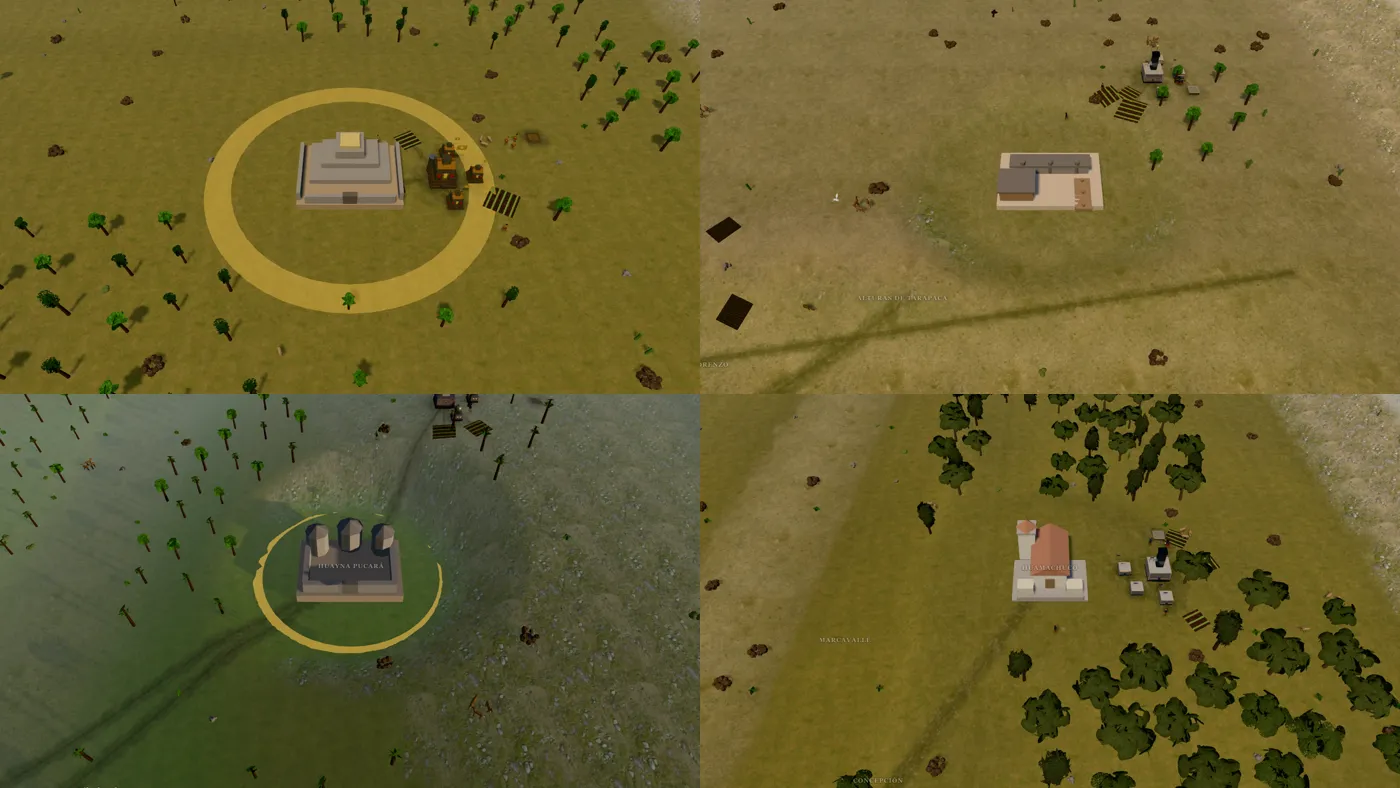
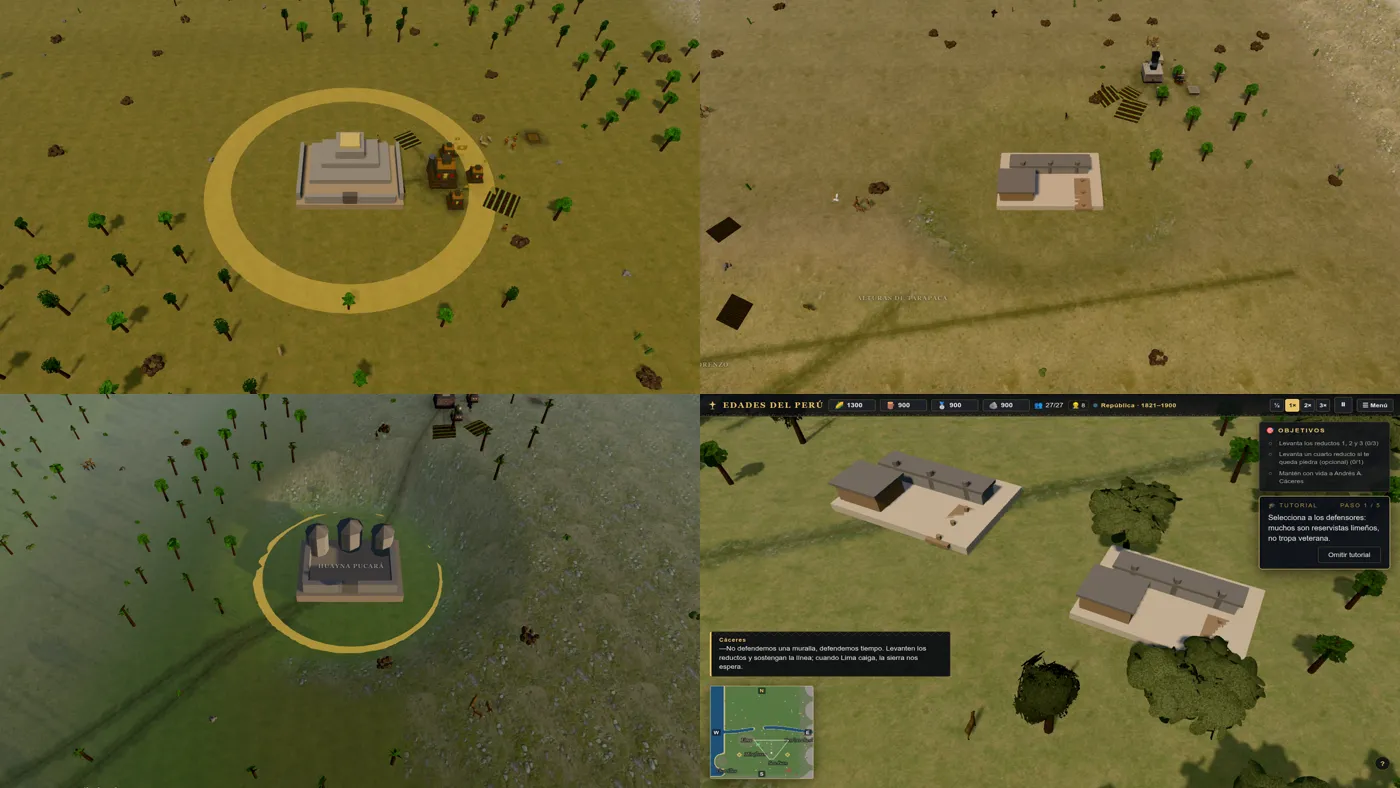
feat: raise the Miraflores redoubts and record the 8/8 round
Composition for the last confusable pair: mission decor now accepts a list, and Miraflores places three arica_battery earthworks along the line (an abstraction the mission objective already names). The blind re-test after the Vilcabamba valley scores 8/8, with D/H separated by the redoubt camp. Bench 698,440 / 547, dist unchanged.

Changed region(s): [[0.4914, 0.4873, 1.0, 1.0]]

diff --git a/src/core/WorldViewDecor.ts b/src/core/WorldViewDecor.ts
@@ -1,4 +1,5 @@
 import type { Game } from './Game';
+import type { MissionDecor } from '../campaign/types';
 import * as THREE from 'three';
 import type { TerrainData } from '../sim/TerrainData';
 import { CulturalLandscape } from '../rendering/CulturalLandscape';
@@ -776,8 +777,18 @@ export class WorldViewDecor {
    * load and never saved (like the terrain and the landmark).
    */
   spawnMissionDecor(): void {
-    const decor = this.game.missionLayout?.decor;
-    if (!decor) return;
+    const raw = this.game.missionLayout?.decor;
+    const pieces: readonly MissionDecor[] = Array.isArray(raw) ? raw : raw ? [raw] : [];
+    if (!pieces.length) return;
+    const parent = new THREE.Group();
+    parent.name = 'mission_decor';
+    this.game.scene.add(parent);
+    this.game.scenarioDecor = parent;
+    for (const decor of pieces) this.spawnDecorPiece(parent, decor);
+  }
+
+  /** One decor piece of the mission composition, placed relative to a player/enemy base. */
+  private spawnDecorPiece(parent: THREE.Group, decor: MissionDecor): void {
     const owner = decor.at === 'enemy' ? 1 : 0;
     const center = [...this.game.buildings.values()].find(
       (b) => b.owner === owner && b.kind === BuildingKind.CENTER && !b.dead,
@@ -792,12 +803,12 @@ export class WorldViewDecor {
     group.rotation.y = decor.yaw ?? 0;
     group.scale.setScalar(decor.scale ?? 1);
     if (decor.glb) group.userData.authoredGlb = decor.glb;
-    this.game.scene.add(group);
-    this.game.scenarioDecor = group;
+    parent.add(group);
+    const current = (): boolean => this.game.scenarioDecor === parent && group.parent === parent;
     if (decor.glb) {
       void loadDecorModel(decor.glb)
         .then((model) => {
-          if (this.game.scenarioDecor !== group) return;
+          if (!current()) return;
           model.name = decor.glb!;
           group.add(model);
           this.enableLandmarkShadows(model);
@@ -805,7 +816,7 @@ export class WorldViewDecor {
         })
         .catch((error: unknown) => {
           console.warn(`[decor] failed to load ${decor.glb}; using procedural fallback`, error);
-          if (this.game.scenarioDecor !== group) return;
+          if (!current()) return;
           const fallback = buildLandmarkModel(decor.model, this.game.makeBuildContext(owner));
           group.add(fallback);
           this.enableLandmarkShadows(fallback);

diff --git a/src/campaign/defs/missions/m_miraflores.ts b/src/campaign/defs/missions/m_miraflores.ts
@@ -44,6 +44,13 @@ export const mMiraflores: MissionDef = {
     base: { x: MIRAFLORES_CAMP.x / 256, z: MIRAFLORES_CAMP.z / 256 },
     opening: { x: 112 / 256, z: 176 / 256 },
     enemyBase: { x: MIRAFLORES_ENEMY.x / 256, z: MIRAFLORES_ENEMY.z / 256 },
+    // The Miraflores line: the earthwork redoubts that separated it from the 1535/1821 city, built from
+    // the Arica battery kit already in the bundle (documented abstraction, no new assets).
+    decor: [
+      { model: 'chanca_fortress', glb: 'arica_battery', at: 'player', dx: 30, dz: 18, yaw: -0.45, scale: 0.8 },
+      { model: 'chanca_fortress', glb: 'arica_battery', at: 'player', dx: 48, dz: 30, yaw: -0.45, scale: 0.7 },
+      { model: 'chanca_fortress', glb: 'arica_battery', at: 'player', dx: 66, dz: 42, yaw: -0.45, scale: 0.6 },
+    ],
     discoveries: [],
     terrain: {
       flats: [

diff --git a/src/campaign/types.ts b/src/campaign/types.ts
@@ -161,8 +161,8 @@ export interface MissionLayout {
    * scenario's first banks sit in the intended water and opening sightline (issue 378).
    */
   fishing?: MissionAnchor[];
-  /** Visual-only landmark/decor placed relative to a base. */
-  decor?: MissionDecor;
+  /** Visual-only landmark/decor placed relative to a base (one piece or a composition). */
+  decor?: MissionDecor | readonly MissionDecor[];
   /** Visual-only roads that read the provincial network. */
   roads?: MissionRoad[];
 }

diff --git a/docs/plan/geographic-identity-roadmap.md b/docs/plan/geographic-identity-roadmap.md
@@ -253,11 +253,11 @@ stay as they were, because the fix broke walkability or belongs to composition:
 | Tarapacá ↔ Quipaipan | 0.91 m | **1.75 m** | taller pampa hills and border ridges; a narrower, deeper dry quebrada with a taller stepped bank |
 | Vilcabamba ↔ Breña | 3.67 m | **4.71 m** | valley walls as broad, long-wavelength slopes: one walkable component, grass 9,451 cells, and the fort on a spur that visibly falls away |
 | Vilcabamba ↔ Quipaipan | 3.20 m | **4.30 m** | the same valley walls; this was the pair the blind test confused |
-| Lima 1821 ↔ Miraflores | 1.57 m | 1.57 m | unchanged by design (shared site anchor); the difference is the redoubt line and the headland, so it belongs to composition |
+| Lima 1821 ↔ Miraflores | 1.57 m | 1.57 m | by design (shared anchor); separated by **composition**: three earthwork redoubts (Arica battery kit) now stand between the camp and Lima, matching the objectives |
 
 The next slice follows the walkability rule the Vilcabamba fix established: a BFS on the 1 m path grid at
 `MAX_WALKABLE_SLOPE`, requiring one component covering ≥99 % of the open cells (`tests/geographic-heightfields.test.ts`). Evidence: [`geographic-identity-phase3.webp`](../media/geographic-identity-phase3.webp). The remaining families
-(recintos, setpieces and Lima 1821's redoubts) follow below.
+(recintos and setpieces) follow below.
 
 Phase 1 created the geometry foundation; Phase 3 completes the mission-level composition, vegetation,
 materials and site work for every mission not closed in Phase 2. Rows marked “Phase 1” are not a second
@@ -299,8 +299,8 @@ heightfield pass; they finish the mission around the new field.
 
 ## 7. Phase 4 — Validation and close
 
-**Status (2026-11-19):** first pass done. Blind test over eight fields: **6/8**, the miss being
-Vilcabamba↔Quipaipan, before the connected valley walls shipped. Historical/geographical audit of
+**Status (2026-11-19):** the acceptance round now scores **8/8** (the round before the connected Vilcabamba
+valley and the Miraflores redoubts scored 6/8). Historical/geographical audit of
 Tarapacá, Real Felipe and Miraflores: no invented facts, four imprecisions fixed (Tarapacá's uncited "200 km",
 Real Felipe's "civilians in Callao" where the source says the fortress, Miraflores' Chorrillos label on the
 inland side, and the stale `lima_site` reference in `docs/historia/campanas/miraflores.md`). The similarity

diff --git a/PROVENANCE.md b/PROVENANCE.md
@@ -471,9 +471,9 @@ slot is absent (offline / without assets).
 
 ### Geographic identity Phase 3 evidence (in-engine contact sheet)
 
-- **Location**: `docs/media/geographic-identity-phase3.webp` (1400x788 WebP q80, 89 KB).
+- **Location**: `docs/media/geographic-identity-phase3.webp` (1400x788 WebP q80, 92 KB).
 - **Source**: `node scripts/screenshot.mjs p3-<name> --url='/?mission=<id>&intro=0&fog=0&seed=777' --click
-  --wait=7000 --site --no-hud` for `m6b_guerra_civil`, `m_tarapaca`, `m_vilcabamba` and `m_brena`; tiled 2x2
+--wait=7000 --site --no-hud` for `m6b_guerra_civil`, `m_tarapaca`, `m_vilcabamba` and `m_brena`; tiled 2x2
   with ffmpeg at 700x394 per cell.
 - **Content**: project-owned game renders with the HUD hidden, SwiftShader. Top row Quipaipan and Tarapacá,
   bottom row Vilcabamba and Breña: the three confusable pairs widened by landform (pampa hills vs deep dry
